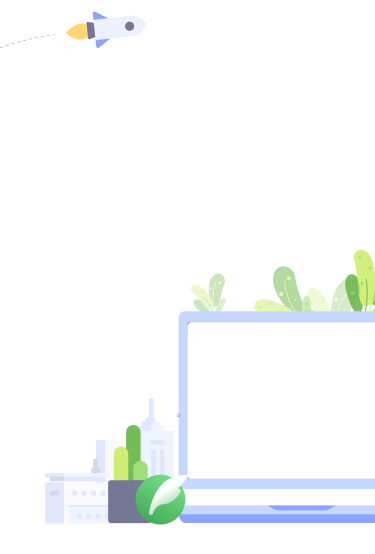
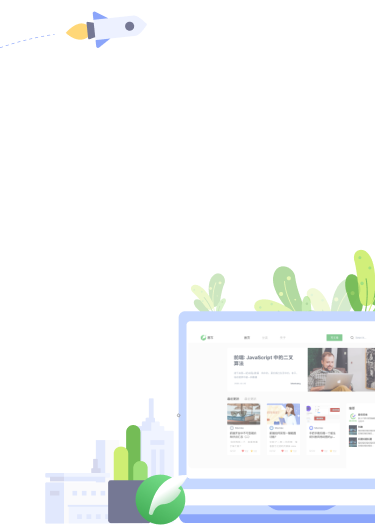
优化主题风格

diff --git a/server/src/views/includes/index.css b/server/src/views/includes/index.css
@@ -169,7 +169,8 @@
   display: none;
 }
 .three_positionBox:hover .three_content {
-  display: block;
+  opacity: 1;
+  background: rgba(255, 255, 255, 0.9);
 }
 .three_content, .three_img {
   width: 100%;
@@ -183,12 +184,12 @@
   position: absolute;
   top: 0;
   left: 0;
-  display: none;
+  opacity: 0;
   width: calc(100% - 80px);
   height: calc(100% - 80px);
   padding: 40px;
-  background: rgba(255, 255, 255, 0.9);
   backdrop-filter: blur(20px);
+  transition: opacity 0.3s ease-in;
 }
 .three_title, .three_desc  {
   overflow: hidden;

diff --git a/server/src/views/includes/home.css b/server/src/views/includes/home.css
@@ -57,7 +57,7 @@
   border-radius: 7px;
   margin-bottom: 44px;
 }
-.homeContent .content {
+.homeContent .desc {
   font-size: 18px;
   line-height: 31px;
   letter-spacing: 0.14em;
@@ -110,7 +110,8 @@
     margin: auto;
     transform: translateY(75px);
   }
-  .homeContent .content {
+  .homeContent .desc {
+    line-height: 22px;
     font-size: 12px;
     color: #333;
     margin-bottom: 19px;
